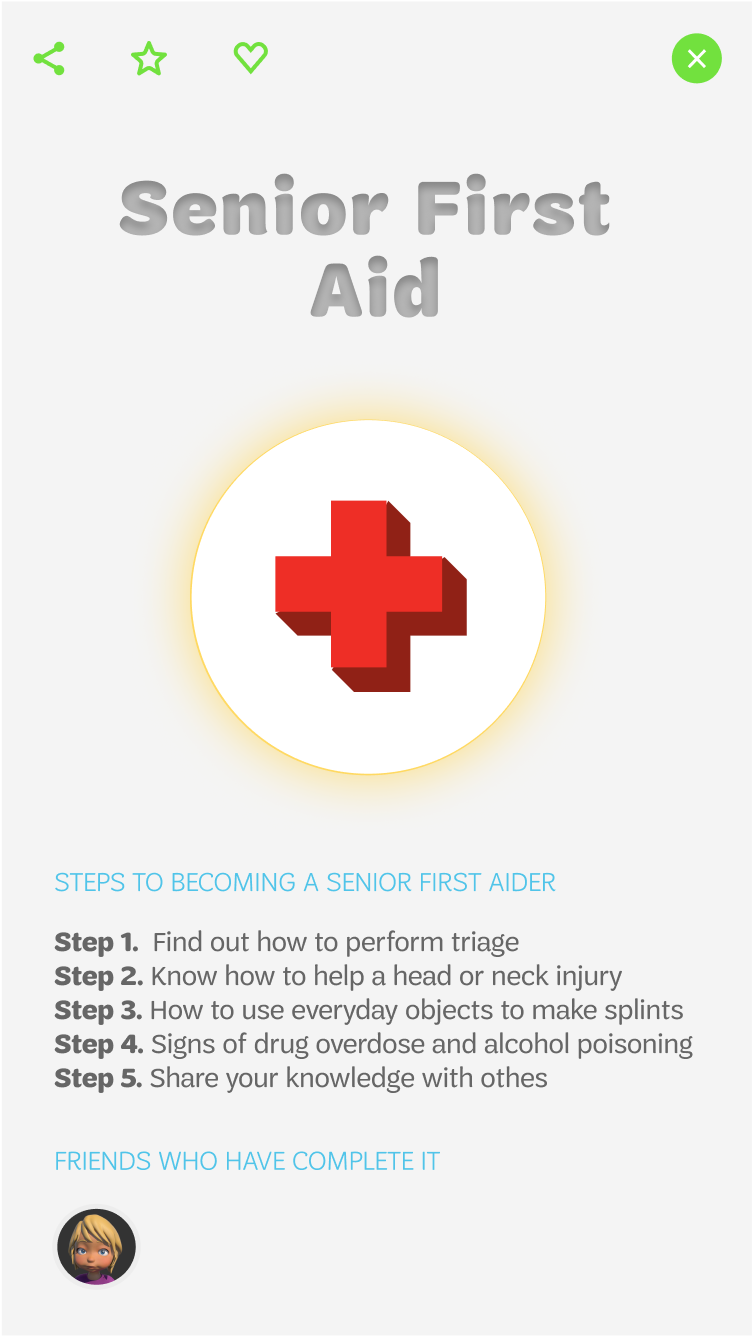
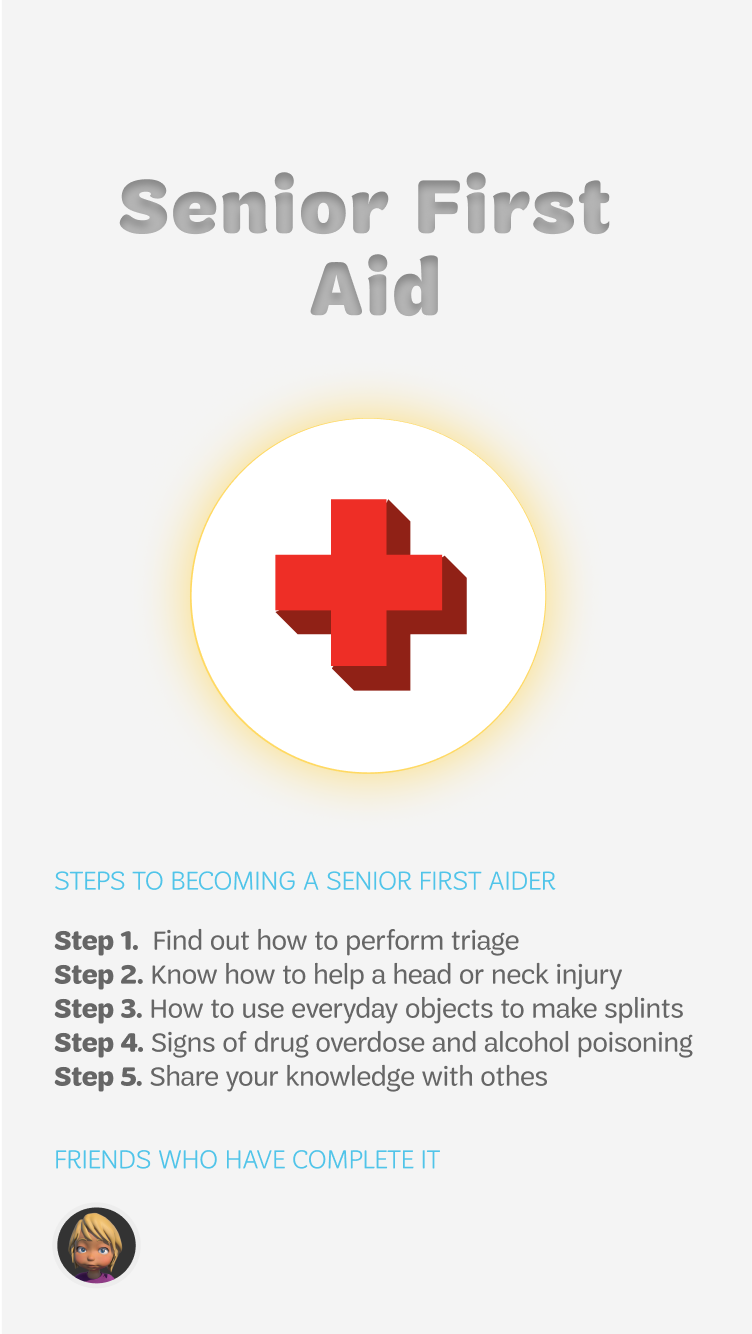
some fixes for badge titles

diff --git a/src/screens/BadgeModalScreen.js b/src/screens/BadgeModalScreen.js
@@ -21,7 +21,7 @@ class BadgeModalScreen extends React.Component {
 				return (<Image style={{width: width, height: height, top:  -100}} source={require('../../assets/staticScreens/badges/scienceOfStyle.png')} />);
 				break;
 			case 'firstaid':
-				return (<Image style={{width: width, height: height, top:  -100}} source={require('../../assets/staticScreens/badges/scienceOfStyle.png')} />);
+				return (<Image style={{width: width, height: height, top:  -100}} source={require('../../assets/staticScreens/badges/seniorFirstAid.png')} />);
 				break;
 			case 'sky':
 				return (<Image style={{width: width, height: height, top:  -100}} source={require('../../assets/staticScreens/badges/sky.png')} />);

diff --git a/src/screens/BadgeScreen.js b/src/screens/BadgeScreen.js
@@ -80,7 +80,7 @@ class BadgeScreen extends React.Component {
           <TouchableOpacity onPress={() => this.props.navigation.navigate('BadgeModal', {id: 'website'})} style={s.exploreContainer}>
             <Image style={s.exploreBadge} resizeMode="contain"
               source={assetPaths.badges.default.webDesigner} />
-              <Text style={s.exploreBadgeTitle}>Web Designer</Text>
+              <Text style={s.exploreBadgeTitle}>Website Designer</Text>
           </TouchableOpacity>
           <TouchableOpacity onPress={() => this.props.navigation.navigate('BadgeModal', {id: 'style'})} style={s.exploreContainer}>
             <Image style={s.exploreBadge} resizeMode="contain"
